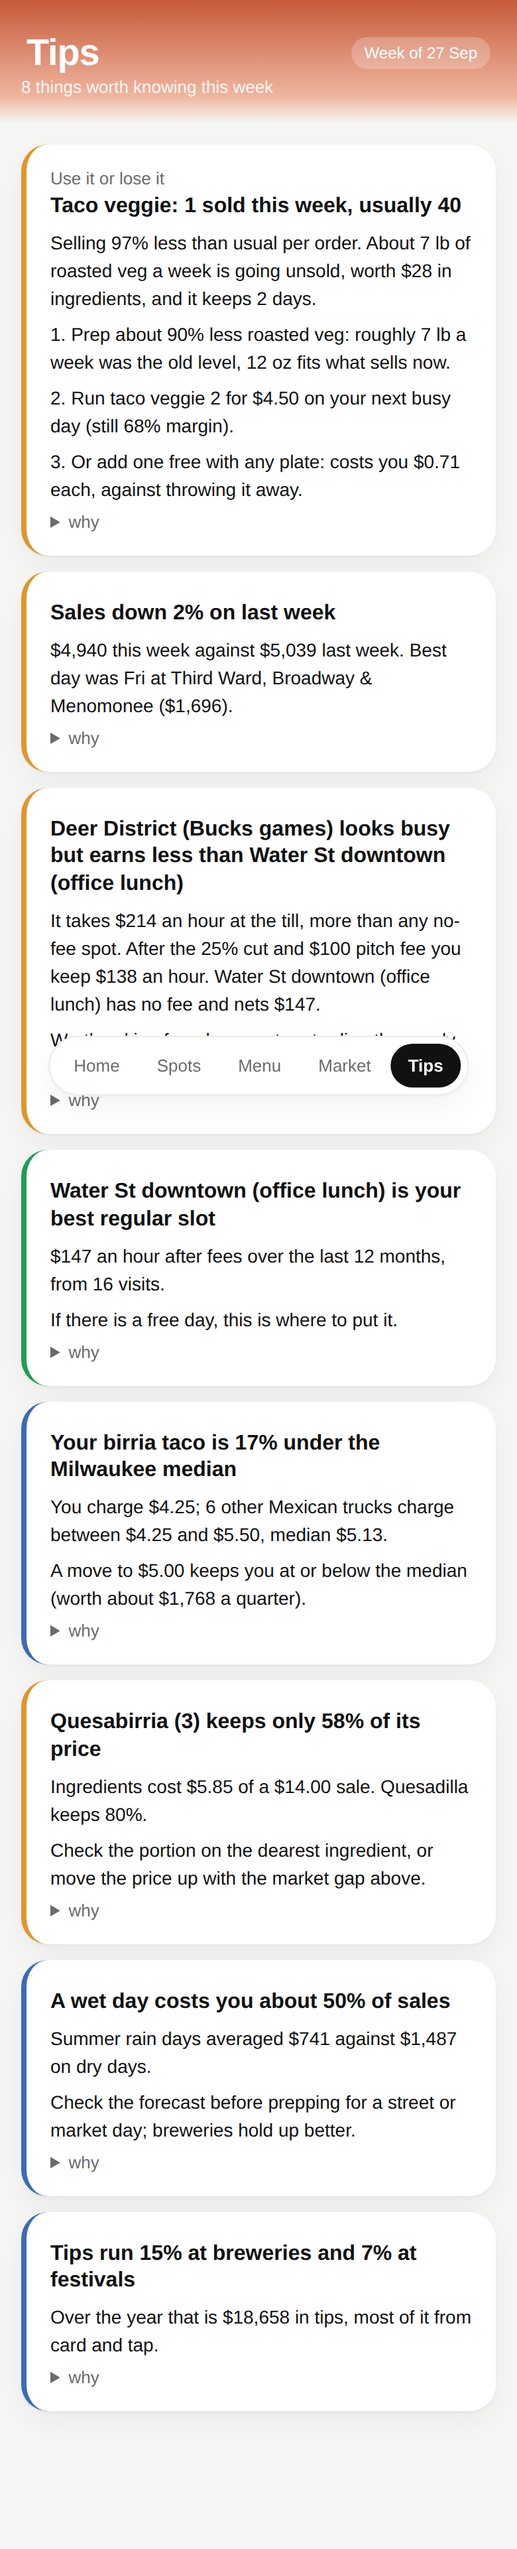
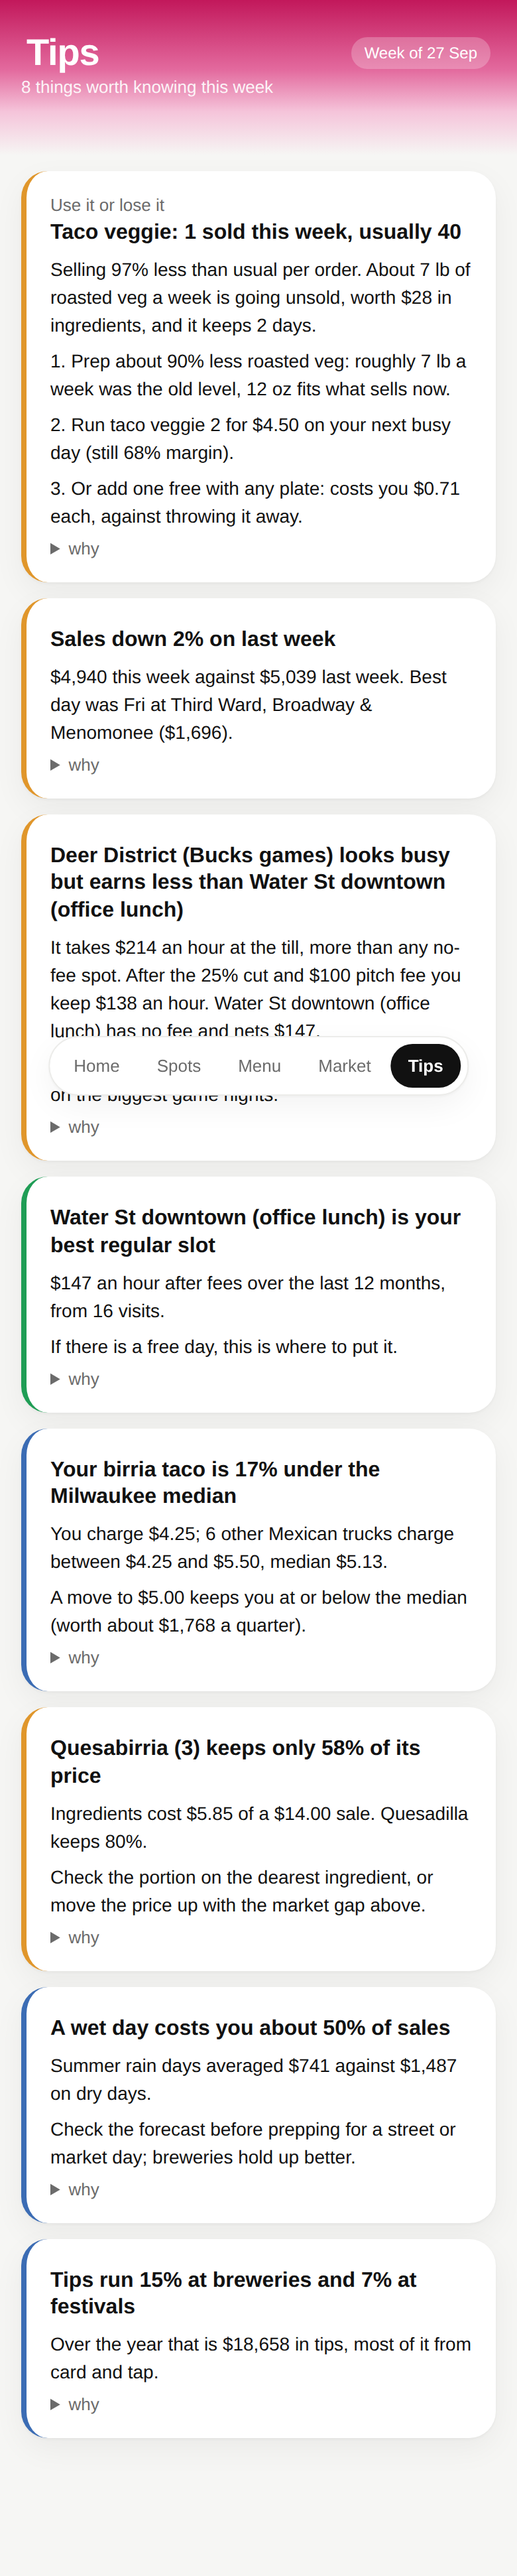
Mexican palette for the gradient headers, longer fade
Flag green on Home, flag red on Market, marigold on Menu, turquoise on
Spots, rosa mexicano on Tips. The gradient now runs through three stops
and more bottom padding so it dissolves into the page below the tiles.

Claude-Session: https://claude.ai/code/session_011kULvXi1EhLGoQfkcWDNEp

diff --git a/food-truck-app/src/app.css b/food-truck-app/src/app.css
@@ -153,14 +153,15 @@ a.plain { text-decoration: none; color: inherit; }
 
 /* gradient hero (full bleed, fades into the page) */
 .grad {
-  margin: -12px -16px 4px; padding: 14px 16px 20px; color: #fff;
-  background: linear-gradient(180deg, var(--g1) 0%, var(--g2) 78%, var(--bg) 100%);
+  margin: -12px -16px 0; padding: 14px 16px 44px; color: #fff;
+  background: linear-gradient(180deg, var(--g1) 0%, var(--g2) 45%, var(--g3) 72%, var(--bg) 100%);
 }
-.grad.gold { --g1: #de8a2c; --g2: #f1c15f; }
-.grad.blue { --g1: #3b6cb4; --g2: #9dbbe6; }
-.grad.sage { --g1: #2f8a5a; --g2: #9fd3b4; }
-.grad.slate { --g1: #4a5568; --g2: #a7b1c2; }
-.grad.warm { --g1: #c75a3a; --g2: #efb59e; }
+/* Mexican flag green and red, plus marigold, turquoise and rosa mexicano. */
+.grad.gold { --g1: #0f7a4a; --g2: #4fae7a; --g3: #b9e0c6; }
+.grad.blue { --g1: #c0392b; --g2: #e3756a; --g3: #f4c7c2; }
+.grad.sage { --g1: #e09a12; --g2: #f0bd55; --g3: #f9e2ab; }
+.grad.slate { --g1: #16858a; --g2: #5cb8bb; --g3: #bfe5e6; }
+.grad.warm { --g1: #c2185b; --g2: #e36a9e; --g3: #f5c4da; }
 .grad .top h1, .grad .eyebrow, .grad .label, .grad .sub { color: #fff; }
 .grad .eyebrow, .grad .label { opacity: 0.9; }
 .grad .avatar { background: rgba(255, 255, 255, 0.28); color: #fff; }
